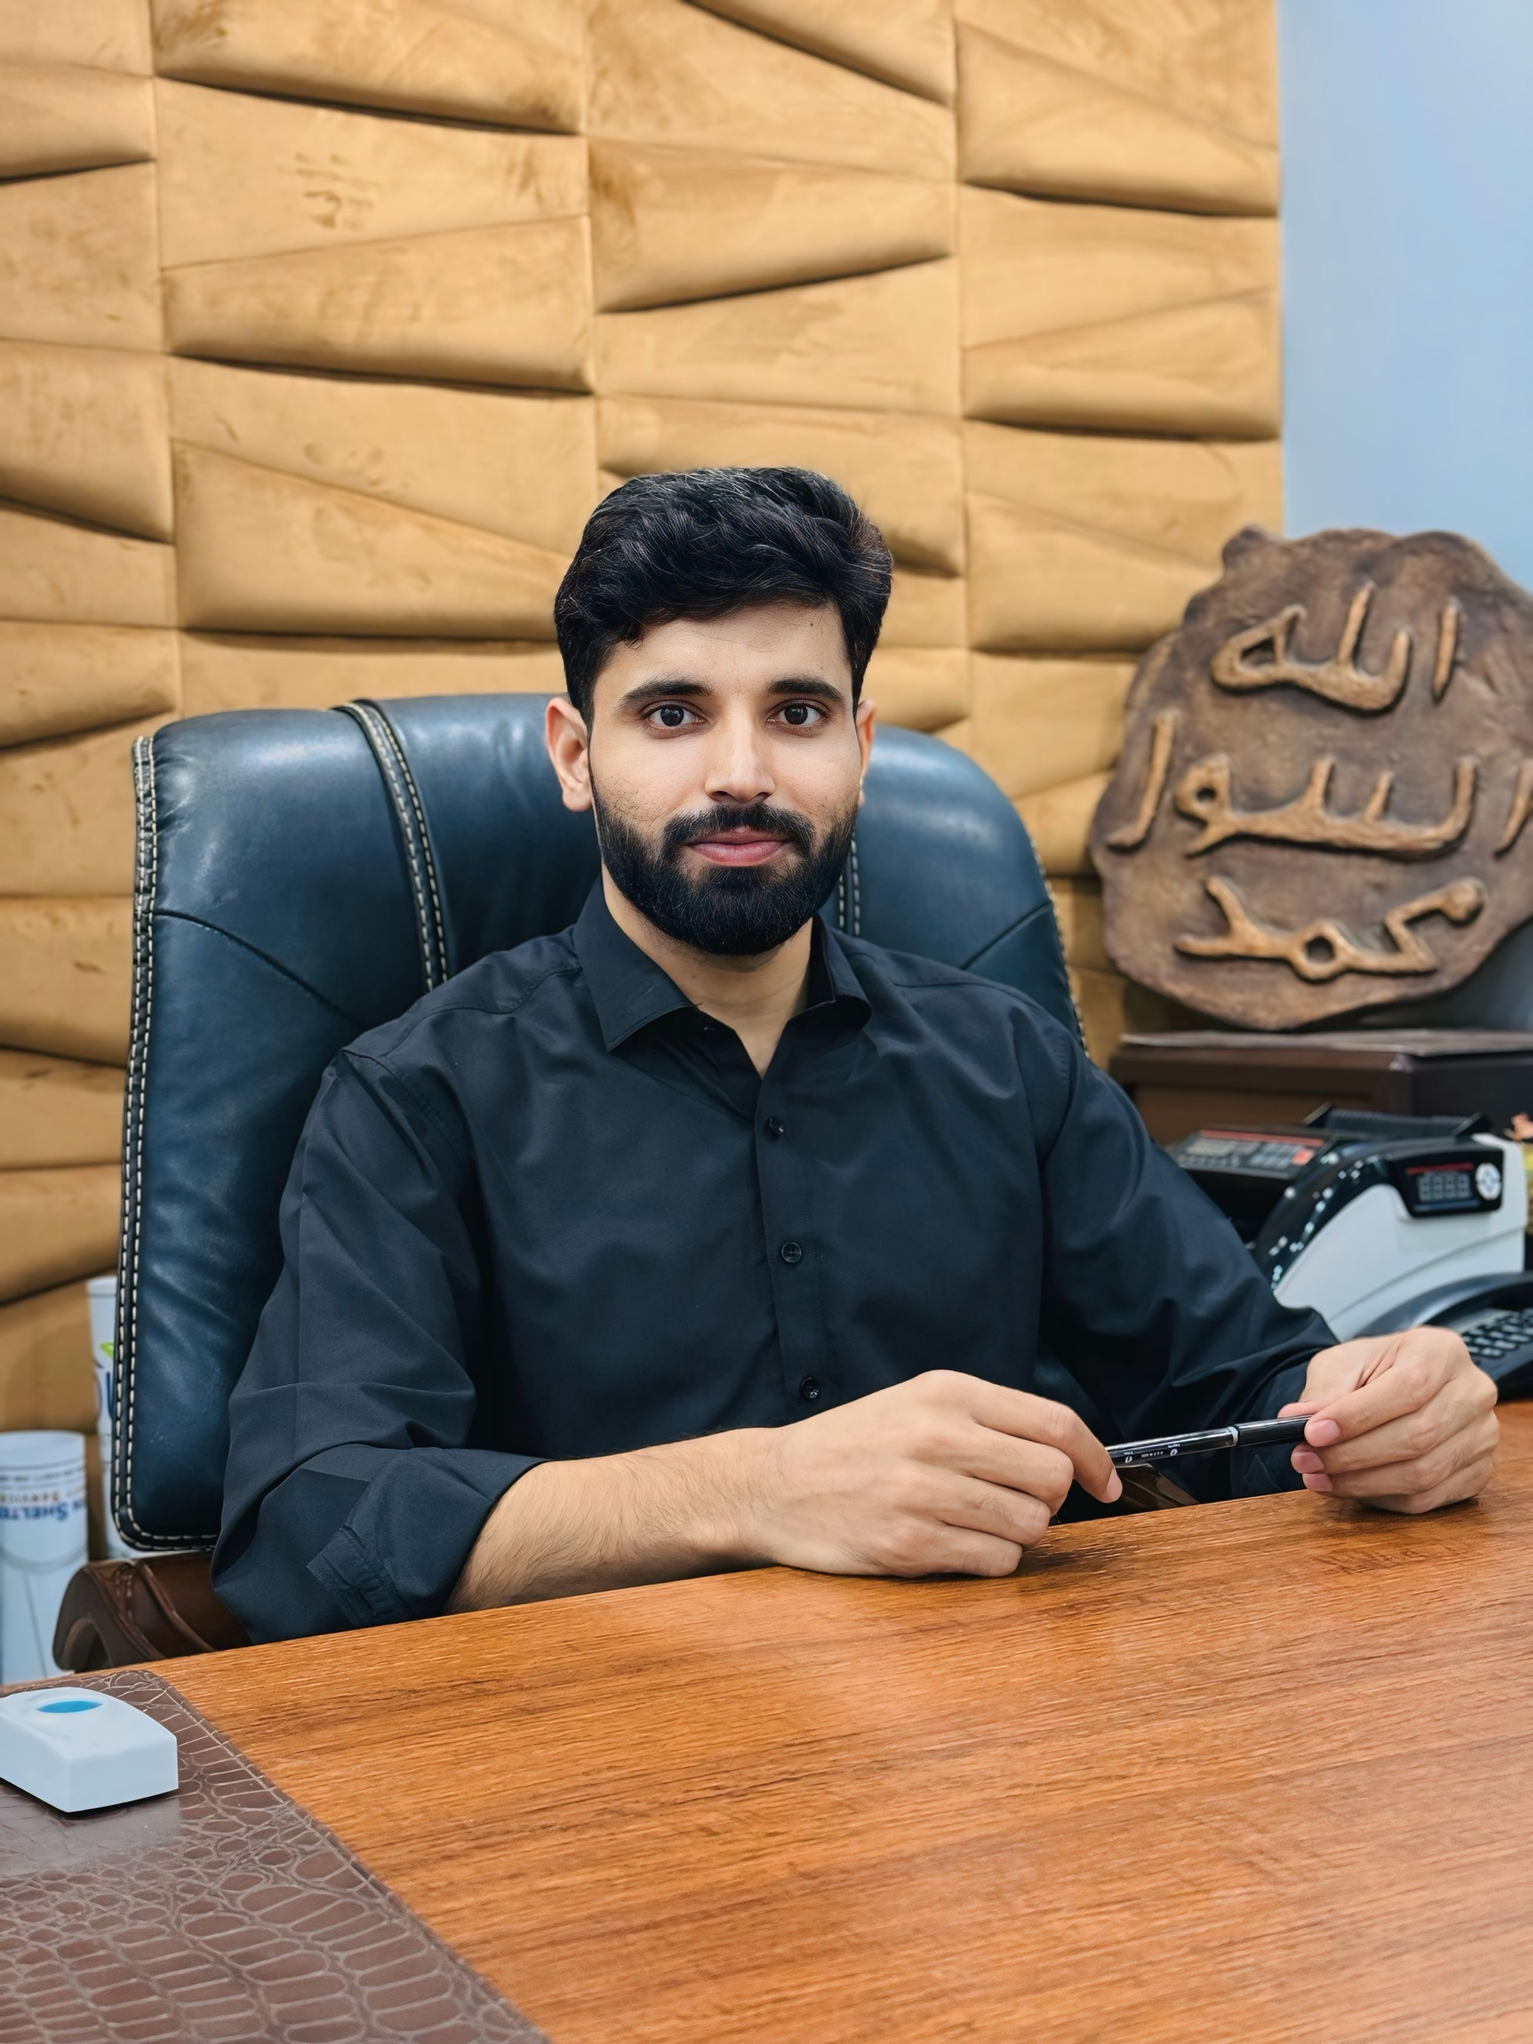
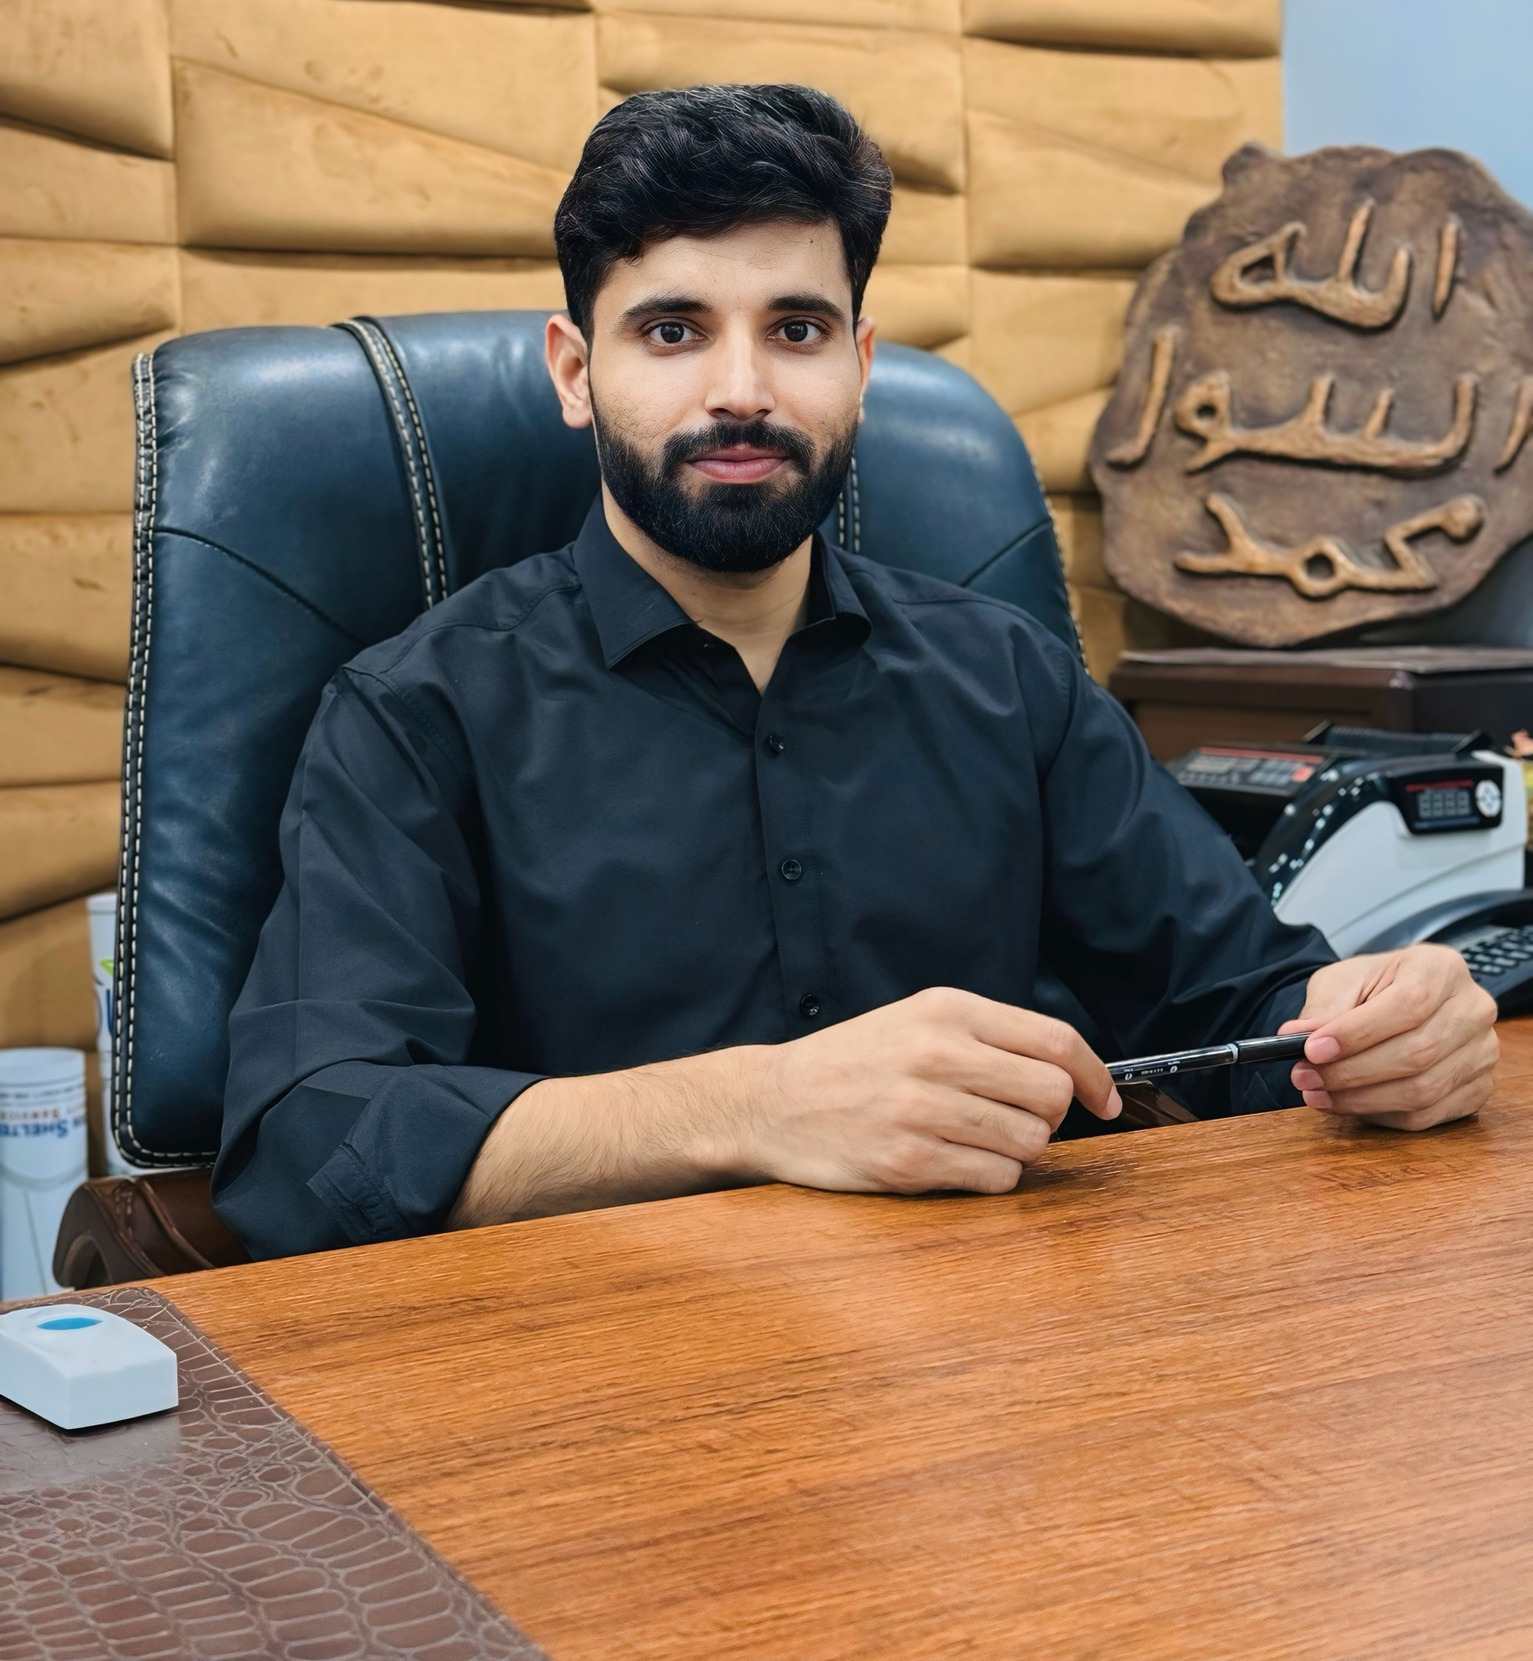
team section added

diff --git a/src/components/home/HeroHome.jsx b/src/components/home/HeroHome.jsx
@@ -1,5 +1,8 @@
+import { useEffect, useState } from "react";
 import {
   ArrowRight,
+  ChevronLeft,
+  ChevronRight,
   Map,
   House,
   Building2,
@@ -8,8 +11,61 @@ import {
   ShieldCheck,
 } from "lucide-react";
 
+const slides = [
+  {
+    image: "/images/gate_10 - Photo.jpg",
+    alt: "A planned residential community",
+    category: ["Urban Planning", "Architecture", "Infrastructure"],
+    heading: ["Shaping Sustainable", "Communities for", "a Better Tomorrow"],
+    description:
+      "CPC provides integrated planning, architectural and infrastructure solutions that create livable, sustainable and resilient communities.",
+    label: ["Better Planning", "Stronger Communities"],
+  },
+  {
+    image: "/images/top1.jpg",
+    alt: "A thoughtfully planned development",
+    category: ["Master Planning", "Community Design", "Growth"],
+    heading: ["Planning Places", "Where Communities", "Can Thrive"],
+    description:
+      "We bring people, places and long-term vision together to shape connected communities ready for what comes next.",
+    label: ["Thoughtful Places", "Lasting Value"],
+  },
+  {
+    image: "/images/top4.jpg",
+    alt: "Modern homes in a planned neighborhood",
+    category: ["Housing", "Architecture", "Livability"],
+    heading: ["Designing Homes", "for Better", "Everyday Living"],
+    description:
+      "From housing schemes to architectural design, we create welcoming places that balance function, quality and context.",
+    label: ["Designed for Living", "Made to Belong"],
+  },
+  {
+    image: "/images/Parliament1.jpg",
+    alt: "Civic architecture and public infrastructure",
+    category: ["Infrastructure", "Engineering", "Resilience"],
+    heading: ["Building the", "Foundations of", "Future Growth"],
+    description:
+      "Our integrated infrastructure and advisory services help communities grow with confidence, resilience and purpose.",
+    label: ["Built with Purpose", "Ready for Tomorrow"],
+  },
+];
+
 const HeroHome = () => {
-  const heroImage = "/images/gate_10 - Photo.jpg";
+  const [activeSlide, setActiveSlide] = useState(0);
+
+  useEffect(() => {
+    const intervalId = window.setInterval(() => {
+      setActiveSlide((currentSlide) => (currentSlide + 1) % slides.length);
+    }, 2800);
+
+    return () => window.clearInterval(intervalId);
+  }, []);
+
+  const showSlide = (index) => {
+    setActiveSlide((index + slides.length) % slides.length);
+  };
+
+  const slide = slides[activeSlide];
 
   const services = [
     {
@@ -48,15 +104,26 @@ const HeroHome = () => {
     <section className="bg-[#F7F7F2] pt-2">
       {/* ================= HERO ================= */}
       <div className="mx-auto max-w-[1400px] px-5 sm:px-8 lg:px-10">
-        <div className="relative min-h-[560px] overflow-hidden rounded-[2px]">
+        <div
+          className="relative min-h-[560px] overflow-hidden rounded-[2px]"
+          role="region"
+          aria-roledescription="carousel"
+          aria-label="Featured CPC services"
+        >
 
           {/* Background Image */}
           <div className="absolute inset-0">
-            <img
-              src={heroImage}
-              alt="Sustainable Urban Planning"
-              className="h-full w-full object-cover"
-            />
+            {slides.map((item, index) => (
+              <img
+                key={item.image}
+                src={item.image}
+                alt={index === activeSlide ? item.alt : ""}
+                aria-hidden={index !== activeSlide}
+                className={`absolute inset-0 h-full w-full object-cover transition-opacity duration-700 motion-reduce:transition-none ${
+                  index === activeSlide ? "opacity-100" : "opacity-0"
+                }`}
+              />
+            ))}
 
             {/* Left White Overlay - Ends Around Half */}
             <div className="absolute inset-y-0 left-0 w-[58%] bg-gradient-to-r from-[#F7F7F2] via-[#F7F7F2]/95 via-[65%] to-transparent" />
@@ -70,28 +137,28 @@ const HeroHome = () => {
             <div className="w-full max-w-[590px] py-16 lg:py-20">
 
               {/* Small Heading */}
-              <div className="mb-5 flex items-center gap-2 text-[9px] font-semibold uppercase tracking-[2px] text-[#397275] sm:text-[10px]">
-                <span>Urban Planning</span>
-                <span>/</span>
-                <span>Architecture</span>
-                <span>/</span>
-                <span>Infrastructure</span>
+              <div className="mb-5 flex flex-wrap items-center gap-2 text-[9px] font-semibold uppercase tracking-[2px] text-[#397275] sm:text-[10px]">
+                {slide.category.map((item, index) => (
+                  <span key={item} className="flex items-center gap-2">
+                    {index > 0 && <span aria-hidden="true">/</span>}
+                    {item}
+                  </span>
+                ))}
               </div>
 
               {/* Main Heading */}
               <h1 className="max-w-[570px] font-serif text-[43px] leading-[0.98] tracking-[-2px] text-[#123F42] sm:text-[52px] lg:text-[60px]">
-                Shaping Sustainable
-                <br />
-                Communities for
-                <br />
-                a Better Tomorrow
+                {slide.heading.map((line, index) => (
+                  <span key={line} className="block">
+                    {line}
+                    {index < slide.heading.length - 1 && <br />}
+                  </span>
+                ))}
               </h1>
 
               {/* Description */}
               <p className="mt-6 max-w-[440px] text-[13px] leading-6 text-[#4E696A] sm:text-[14px]">
-                CPC provides integrated planning, architectural and
-                infrastructure solutions that create livable, sustainable
-                and resilient communities.
+                {slide.description}
               </p>
 
               {/* Buttons */}
@@ -181,12 +248,44 @@ const HeroHome = () => {
           </div>
 
           {/* Image Side Label */}
-          <div className="absolute bottom-8 right-8 z-10 hidden max-w-[150px] text-right sm:block">
-            <p className="font-serif text-[16px] italic leading-tight text-white drop-shadow-lg">
-              Better Planning
-              <br />
-              Stronger Communities
-            </p>
+          <div className="absolute bottom-6 right-6 z-10 flex items-end gap-5 sm:bottom-8 sm:right-8">
+            <div className="hidden max-w-[150px] text-right sm:block">
+              <p className="font-serif text-[16px] italic leading-tight text-white drop-shadow-lg">
+                {slide.label[0]}
+                <br />
+                {slide.label[1]}
+              </p>
+            </div>
+            <button
+              type="button"
+              onClick={() => showSlide(activeSlide - 1)}
+              aria-label="Previous slide"
+              className="flex h-9 w-9 items-center justify-center rounded-full border border-white/50 bg-[#073F42]/50 text-white backdrop-blur-sm transition hover:bg-[#073F42]"
+            >
+              <ChevronLeft size={17} />
+            </button>
+            <div className="flex items-center gap-1.5">
+              {slides.map((item, index) => (
+                <button
+                  key={item.image}
+                  type="button"
+                  onClick={() => showSlide(index)}
+                  aria-label={`Go to slide ${index + 1}`}
+                  aria-current={index === activeSlide ? "true" : undefined}
+                  className={`h-2 rounded-full transition-all ${
+                    index === activeSlide ? "w-5 bg-white" : "w-2 bg-white/60 hover:bg-white"
+                  }`}
+                />
+              ))}
+            </div>
+            <button
+              type="button"
+              onClick={() => showSlide(activeSlide + 1)}
+              aria-label="Next slide"
+              className="flex h-9 w-9 items-center justify-center rounded-full border border-white/50 bg-[#073F42]/50 text-white backdrop-blur-sm transition hover:bg-[#073F42]"
+            >
+              <ChevronRight size={17} />
+            </button>
           </div>
         </div>
       </div>

diff --git a/src/components/home/TeamSection.jsx b/src/components/home/TeamSection.jsx
@@ -1,0 +1,127 @@
+const leadership = [
+    {
+        name: "Abdul Razaq",
+        role: "CEO / Principal Town Planner",
+        description: "Guides CPC's town-planning vision and leads projects toward thoughtful, lasting outcomes.",
+        image: "/team/Abdul%20Razzaq.jpeg",
+    },
+    {
+        name: "Saira Ashraf",
+        role: "Managing Director / Lead Town Planner",
+        description: "Leads town-planning work, shaping practical solutions around each project's goals.",
+        image: "/team/Saira%20Ashraf.jpeg",
+    },
+];
+
+const teamMembers = [
+    {
+        name: "Abdul Wahab",
+        role: "Manager Architecture & Urban Design",
+        description: "Brings architectural and urban design ideas together to create functional places.",
+        image: "/team/Abdul%20Wahab.jpeg",
+    },
+    {
+        name: "Hafsa Farooq",
+        role: "Director Architecture & Landscape",
+        description: "Connects architecture and landscape design to create cohesive environments.",
+    },
+    {
+        name: "Kaleem Aslam",
+        role: "Deputy Manager Landscape Design",
+        description: "Develops landscape designs that balance usability, character, and care for place.",
+        image: "/team/Kaleem.png",
+    },
+    {
+        name: "Rana Zohaib",
+        role: "Director Operations",
+        description: "Coordinates CPC's operations to help teams and projects run smoothly.",
+        image: "/team/R%20zohaib.jpeg",
+        showFullImage: true,
+    },
+];
+
+const TeamCard = ({ member }) => (
+    <article className="overflow-hidden rounded-2xl border border-gray-100 bg-white">
+        {member.image ? (
+            <img
+                src={member.image}
+                alt={member.name}
+                className={`aspect-4/3 w-full ${member.showFullImage ? "bg-black object-contain" : "object-cover object-top"}`}
+                style={member.showFullImage ? { transform: "scale(0.99)" } : undefined}
+                loading="lazy"
+            />
+        ) : (
+            <div
+                className="flex aspect-4/3 w-full items-center justify-center overflow-hidden bg-[#e8ece8]"
+            >
+                <svg
+                    viewBox="0 0 448 448"
+                    role="img"
+                    aria-label={`Illustrated portrait of ${member.name}`}
+                    className="h-full max-h-full w-auto"
+                >
+                    <circle cx="224" cy="224" r="210" fill="#70b3e2" />
+                    <path
+                        d="M112 390c8-65 7-212 20-276C143 57 177 32 224 32c64 0 99 43 105 105 7 75 2 187 14 253l-67 35H170z"
+                        fill="#323540"
+                    />
+                    <path d="M194 250h60v71h-60z" fill="#f1bb82" />
+                    <path
+                        d="M147 158c0-69 30-111 78-111 52 0 77 42 77 111 0 63-35 115-77 115s-78-52-78-115z"
+                        fill="#f7c995"
+                    />
+                    <path
+                        d="M145 162c2-79 29-126 80-126 54 0 82 43 81 119-8 5-15 6-24 4-28-4-60-20-84-43-12 28-30 43-53 46z"
+                        fill="#323540"
+                    />
+                    <path
+                        d="M176 285c18 14 33 21 48 21 17 0 34-8 49-21l60 20c24 8 42 29 48 56l17 87H50l17-87c5-27 23-48 48-56z"
+                        fill="#8b6f62"
+                    />
+                    <path d="m181 279 43 27-33 58-23-39 13-46zm86 0-43 27 33 58 23-39-13-46z" fill="#e94b68" />
+                    <path d="m191 365 33-59 33 59-33 65z" fill="#e5b900" />
+                    <circle cx="151" cy="178" r="17" fill="#f1bb82" />
+                    <circle cx="297" cy="178" r="17" fill="#f1bb82" />
+                    <circle cx="149" cy="180" r="3" fill="#fff" />
+                    <circle cx="299" cy="180" r="3" fill="#fff" />
+                </svg>
+            </div>
+        )}
+        <div className="p-5 sm:p-6">
+            <h3 className="text-lg font-medium text-[#123c3a]">{member.name}</h3>
+            <p className="mt-2 text-xs leading-5 text-gray-500">{member.role}</p>
+            <p className="mt-3 text-xs leading-5 text-gray-500">{member.description}</p>
+        </div>
+    </article>
+);
+
+const TeamSection = () => (
+    <section className="w-full bg-[#f7f8f5]">
+        <div className="mx-auto max-w-350 px-6 py-16 lg:px-10 lg:py-20 xl:px-14">
+            <div className="mb-10 max-w-2xl">
+                <p className="mb-5 text-[11px] font-semibold uppercase tracking-[0.25em] text-gray-500">
+                    The People Behind CPC
+                </p>
+                <h2 className="text-4xl font-medium leading-[1.08] text-[#123c3a] md:text-5xl">
+                    Meet Our Team
+                </h2>
+            </div>
+
+            <div className="grid grid-cols-1 gap-2 md:grid-cols-2 md:gap-0.5">
+                {leadership.map((member) => (
+                    <div key={member.name} className="mx-auto w-full max-w-110">
+                        <TeamCard member={member} />
+                    </div>
+                ))}
+            </div>
+
+            <div className="mt-5 grid grid-cols-1 gap-5 sm:grid-cols-2 lg:mt-6 lg:grid-cols-4 lg:gap-6">
+                {teamMembers.map((member) => (
+                    <TeamCard key={member.name} member={member} />
+                ))}
+            </div>
+        </div>
+    </section>
+);
+
+export default TeamSection;

diff --git a/src/components/contact/ContactHero.jsx b/src/components/contact/ContactHero.jsx
@@ -24,8 +24,8 @@ export default function ContactHero() {
                         <div className="mt-12 flex items-end justify-between border-t border-[#123f42]/10 pt-6">
                             <div className="space-y-4 text-sm text-[#315355]">
                                 <p className="flex items-center gap-3"><Mail size={16} className="text-[#b79538]" /> info@cityplanningconsultant.com</p>
-                                <p className="flex items-center gap-3"><Phone size={16} className="text-[#b79538]" /> +92 300 1234567</p>
-                                <p className="flex items-center gap-3"><MapPin size={16} className="text-[#b79538]" /> Lahore, Pakistan</p>
+                                <p className="flex items-center gap-3"><Phone size={16} className="text-[#b79538]" /> +92 333 2545730</p>
+                                <p className="flex items-center gap-3"><MapPin size={16} className="text-[#b79538]" />  Office No 02, First Floor, 17 Block D-II, MA Johar Town, Lahore, Pakistan</p>
                             </div>
                             <span className="hidden h-14 w-14 items-center justify-center rounded-full bg-[#123f42] text-white sm:flex"><ArrowDownRight size={22} /></span>
                         </div>

diff --git a/src/components/pages/Home.jsx b/src/components/pages/Home.jsx
@@ -3,6 +3,7 @@ import Featured from '../home/Featured'
 import AboutCP from '../home/AboutCP'
 import Planning from '../home/Planning'
 import Approach from '../home/Approach'
+import TeamSection from '../home/TeamSection'
 import CommunitiesSection from '../home/CommunitiesSection'
 
 const Home = () => {
@@ -13,6 +14,7 @@ const Home = () => {
             <AboutCP />
             <Planning />
             <Approach />
+            <TeamSection />
             <CommunitiesSection />
         </div>
     )

diff --git a/src/components/home/CommunitiesSection.jsx b/src/components/home/CommunitiesSection.jsx
@@ -124,7 +124,7 @@ const CommunitiesSection = () => {
                                 </button>
 
                                 <button className="rounded-full border border-white/40 px-5 py-2.5 text-xs font-medium text-white transition hover:bg-white/10">
-                                    +92 300 1234567
+                                    +92 333 2545730
                                 </button>
                             </div>
 

diff --git a/src/components/common/Footer.jsx b/src/components/common/Footer.jsx
@@ -71,7 +71,7 @@ const Footer = () => {
               </a>
 
               <a
-                href="#"
+                href="https://www.instagram.com/cpcplanning?stkn=MW5hOTdzcnpwaGhlcg=="
                 className="flex h-7 w-7 items-center justify-center rounded-full border border-white/20 text-white/60 transition hover:border-white/50 hover:text-white"
               >
                 <Instagram size={12} />

diff --git a/src/components/pages/About.jsx b/src/components/pages/About.jsx
@@ -1,11 +1,13 @@
 import AboutHero from '../about/AboutHero'
 import AboutStory from '../about/AboutStory'
+import TeamSection from '../home/TeamSection'
 
 const About = () => {
   return (
     <div>
       <AboutHero />
-    <AboutStory />
+      <AboutStory />
+      <TeamSection />
     </div>
   )
 }
